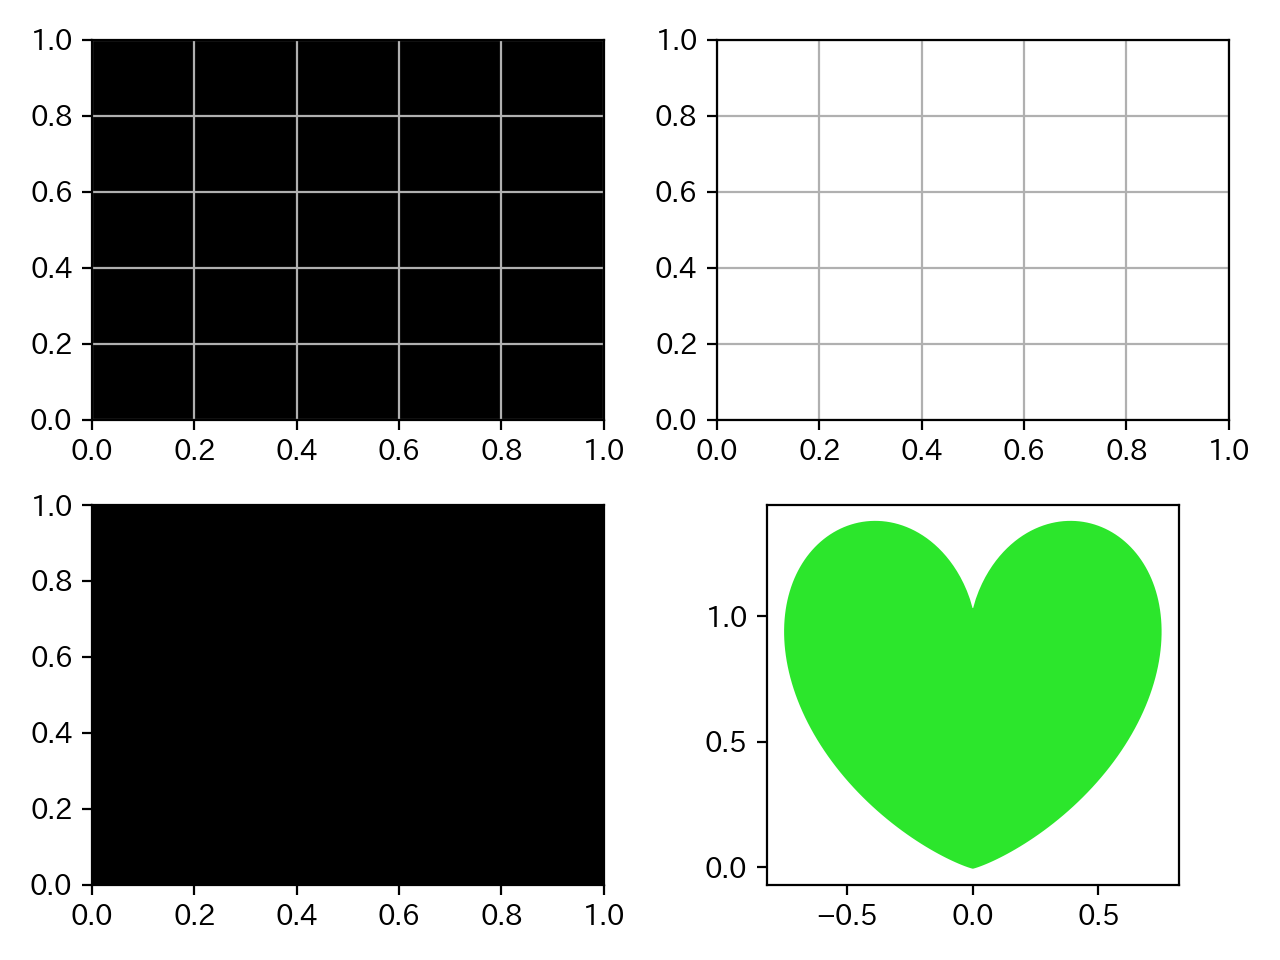
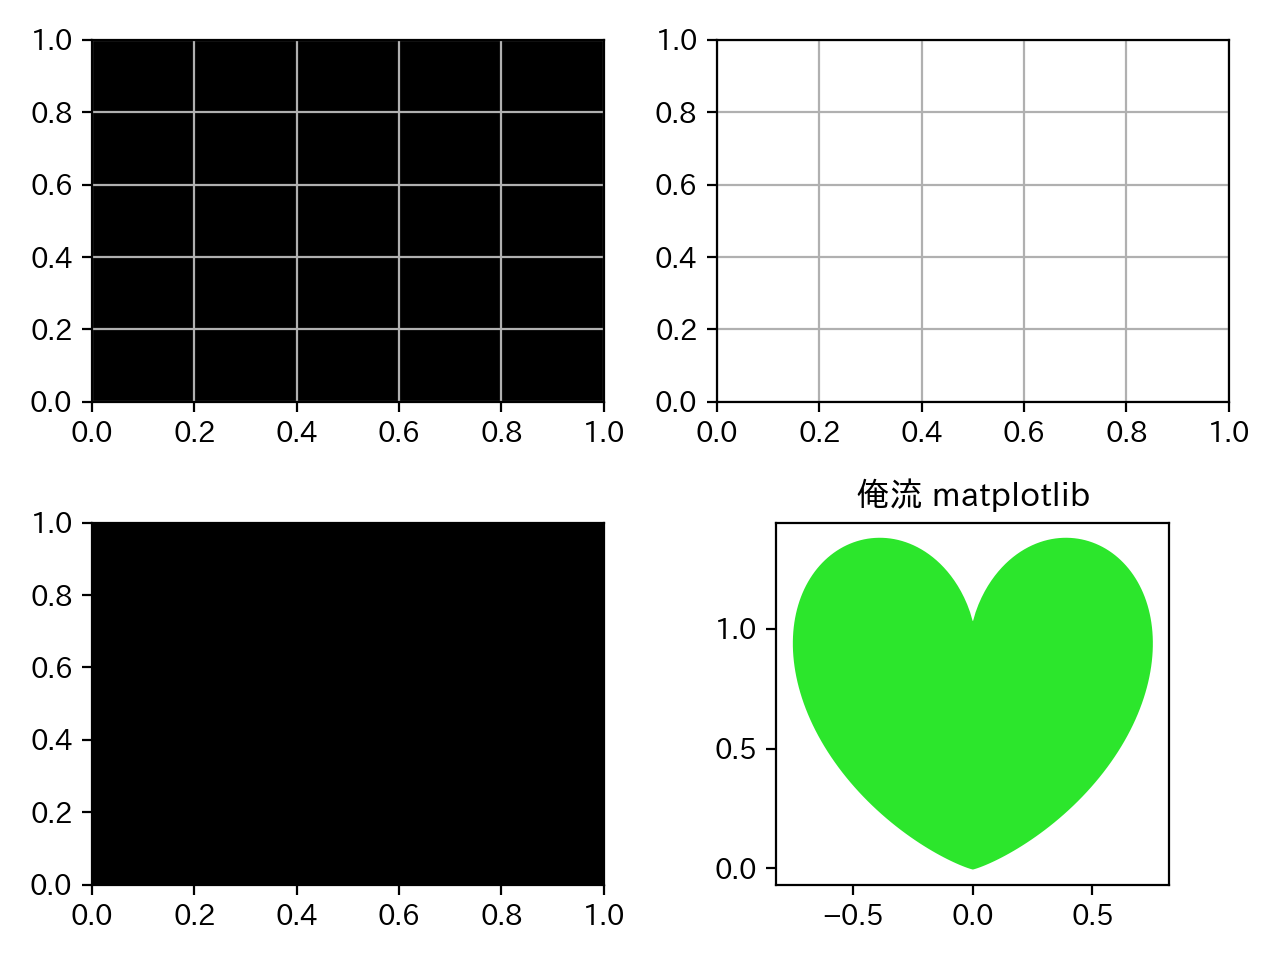
Update README.md

diff --git a/README.md b/README.md
@@ -2,12 +2,12 @@
 
 matplotlib extension for me (... and you).
 
-## Features
+# Features
 
-1. Oekaki warn about potentially misleading graphs. (ex: No labels or units.)
-2. You can manipulate subplots with numpy-like slices.
-3. You can add subplots later, wherever you want.
-4. (Oekaki imports `japanize-matplotlib` if it's installed.)
+- 1⃣ You can add subplots later, wherever you want.
+- 2⃣ You can manipulate subplots with numpy-like slices.
+- 3⃣ Oekaki warn about potentially misleading graphs. (ex: No labels or units.)
+- 🍣 (Oekaki imports `japanize-matplotlib` if it's installed.)
 
 # Demo
 
@@ -17,14 +17,20 @@ img
 import numpy as np
 import oekaki
 
-theta = np.linspace(0, np.pi, 300)
-r = np.abs(np.tan(theta))**(1 / np.abs(np.tan(theta)))
-
+# 1⃣: lazy draw subplots
 fig = oekaki.figure(strict=False)
+
+# 2⃣: able to use slice
 fig[:, 0].set(facecolor="black")
 fig[0, :].grid(True)
-fig[1, 1].fill(r * np.cos(theta), r * np.sin(theta), color="#2ce62c")
+
+
+# 🍣 japanize
 fig[1, 1].set(aspect="equal", title="俺流 matplotlib")
+
+theta = np.linspace(0, np.pi, 300)
+r = np.abs(np.tan(theta))**(1 / np.abs(np.tan(theta)))
+fig[1, 1].fill(r * np.cos(theta), r * np.sin(theta), color="#2ce62c")
 fig.show()
 # out:
 # examples/readme.py:20: Mont3Warning:
@@ -32,7 +38,14 @@ fig.show()
 # (1, 1): No y-label.
 ```
 
----
+3⃣: This code raises the following warnings.
+
+```
+examples/readme.py:16: Mont3Warning: 
+(1, 1): No x-label.
+(1, 1): No y-label.
+  fig.show()
+```
 
 # Requirement
 
@@ -41,9 +54,11 @@ fig.show()
 # Installation
 
 ```
-pip install git+git@github.com:yuji96/mont3.git
+pip install git+git@github.com:yuji96/oekaki.git
 # in the future, `pip install oekaki`
 ```
+
+todo: `oekaki[ja]`
 
 # Usage
 
